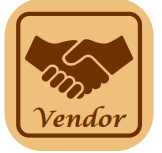
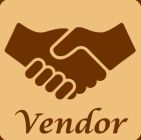
api changes and main menu change

diff --git a/bakery_management/lib/main.dart b/bakery_management/lib/main.dart
@@ -1,5 +1,4 @@
 import 'package:flutter/material.dart';
-import 'package:bakery_management/pages/inventory.dart';
 import 'package:http/http.dart' as http;
 import 'dart:convert';
 
@@ -19,7 +18,7 @@ class BakeryManagementApp extends StatelessWidget {
       ),
 
       home: const SignInPage(),
-      main
+
     );
   }
 }
@@ -62,7 +61,7 @@ class _SignInPageState extends State<SignInPage> {
     return Scaffold(
       appBar: AppBar(
         title: const Text('Sign In'),
-        backgroundColor: const Color(0xFFD8C4AA),
+        backgroundColor: const Color(0xFFEEC07B),
       ),
       body: Padding(
         padding: const EdgeInsets.all(16.0),
@@ -93,81 +92,97 @@ class _SignInPageState extends State<SignInPage> {
 class BakeryHomePage extends StatelessWidget {
   const BakeryHomePage({super.key});
 
- @override
-Widget build(BuildContext context) {
-  return Scaffold(
-    appBar: AppBar(
-      title: Image.asset(
-        'assets/logo1.png',
-        height: 40,
+  @override
+  Widget build(BuildContext context) {
+    return Scaffold(
+      appBar: AppBar(
+        title: Image.asset(
+          'assets/logo1.png',
+          height: 40,
+        ),
+        centerTitle: true,
+        backgroundColor: const Color(0xFFEEC07B),
       ),
-      centerTitle: true,
-      backgroundColor: const Color(0xFFD8C4AA),
-    ),
-    backgroundColor: const Color(0xFF422308),
-    body: Padding(
-      padding: const EdgeInsets.all(16.0),
-      child: Column(
-        crossAxisAlignment: CrossAxisAlignment.stretch,
-        children: [
-          const SizedBox(height: 20),
-          ElevatedButton(
-            onPressed: () {
-              // Navigate to Inventory Page
-              Navigator.push(
-                context,
-                MaterialPageRoute(builder: (context) => const InventoryPage()),
-              );
-            },
-            child: const Text('Manage Inventory'),
-          ),
-          ElevatedButton(
-            onPressed: () {
-              // Navigate to Employee Management Page
-              Navigator.push(
-                context,
-                MaterialPageRoute(builder: (context) => const EmployeesPage()),
-              );
-            },
-            child: const Text('Manage Recipes'),
-          ),
-          GestureDetector(
-            onTap: () {
-              // Navigate to Vendors Page
-              Navigator.push(
-                context,
-                MaterialPageRoute(builder: (context) => const OrdersPage()),
-              );
-            },
-            child: Column(
-              children: [
-                Image.asset(
-                  'assets/vendor.png', // Replace with the vendor image path
-                  height: 100,               // Adjust height as needed
-                  fit: BoxFit.cover,         // Adjust fit based on your layout needs
-                ),
-                const SizedBox(height: 8),  // Space between image and text
-                const Text(
-                  'Manage Vendors',
-                  style: TextStyle(
-                    fontSize: 16,           // Adjust text size as needed
-                    color: Colors.white,    // Adjust text color as needed
+      backgroundColor: const Color(0xFF422308),
+      body: Padding(
+        padding: const EdgeInsets.all(16.0),
+        child: Column(
+          crossAxisAlignment: CrossAxisAlignment.stretch,
+          children: [
+            Expanded(
+              child: GridView.count(
+                crossAxisCount: 2, // Two columns
+                crossAxisSpacing: 16, // Space between columns
+                mainAxisSpacing: 16, // Space between rows
+                children: [
+                  _buildGridButton(
+                    context,
+                    'assets/vendor.png',
+                    'Manage Vendors',
+                    const VendorsPage(),
                   ),
-                ),
-              ],
+                  _buildGridButton(
+                    context,
+                    'assets/recipe.png',
+                    'Manage Recipes',
+                    const RecipePage(),
+                  ),
+                  _buildGridButton(
+                    context,
+                    'assets/inventory.png',
+                    'Manage Inventory',
+                    const InventoryPage(),
+                  ),
+                  _buildGridButton(
+                    context,
+                    'assets/bakedgoods.png',
+                    'Manage Baked Goods',
+                    const BakedGoodsPage(), // Replace with the appropriate page for baked goods
+                  ),
+                ],
+              ),
+            ),
+               Expanded(
+              flex: 1, // Gives 1 part of the available space to the image
+              child: Image.asset(
+                'assets/bread2.png', // Path to your bread image
+                fit: BoxFit.cover,   // Make the image cover the available space
+                width: double.infinity, // Make the image stretch across the screen width
+              ),
+            ),
+          ],
+        ),
+      ),
+    );
+  }
+  Widget _buildGridButton(BuildContext context, String imagePath, String label, Widget page) {
+    return GestureDetector(
+      onTap: () {
+        Navigator.push(
+          context,
+          MaterialPageRoute(builder: (context) => page),
+        );
+      },
+      child: Column(
+        children: [
+          Expanded(
+            child: Image.asset(
+              imagePath,
+              fit: BoxFit.cover,
             ),
           ),
-          const SizedBox(height: 20), // Space between vendor button and the bread image
-          Image.asset(
-            'assets/bread2.png',        // Path to your bread image
-            height: 150,                // Adjust height as needed
-            fit: BoxFit.cover,          // Adjust fit based on your layout needs
+          const SizedBox(height: 8), // Space between image and text
+          Text(
+            label,
+            style: const TextStyle(
+              fontSize: 16,           // Adjust text size as needed
+              color: Colors.white,    // Adjust text color as needed
+            ),
           ),
         ],
       ),
-    ),
-  );
-}
+    );
+  }
 }
 
 
@@ -330,8 +345,27 @@ class AddRecipePage extends StatelessWidget {
   }
 }
 
-class OrdersPage extends StatelessWidget {
-  const OrdersPage({super.key});
+class VendorsPage extends StatelessWidget {
+  const VendorsPage({super.key});
+
+  @override
+  Widget build(BuildContext context) {
+    return Scaffold(
+      appBar: AppBar(
+        title: const Text('Order Management'),
+      ),
+      body: const Center(
+        child: Text(
+          'Order Management Page',
+          style: TextStyle(fontSize: 20),
+        ),
+      ),
+    );
+  }
+}
+
+class BakedGoodsPage extends StatelessWidget {
+  const BakedGoodsPage({super.key});
 
   @override
   Widget build(BuildContext context) {

diff --git a/bakery_management/lib/pages/inventory.dart b/bakery_management/lib/pages/inventory.dart
@@ -1,6 +1,4 @@
 import 'package:flutter/material.dart';
-import 'package:http/http.dart' as http;
-import 'dart:convert';
 
 class InventoryPage extends StatelessWidget {
   const InventoryPage({super.key});
